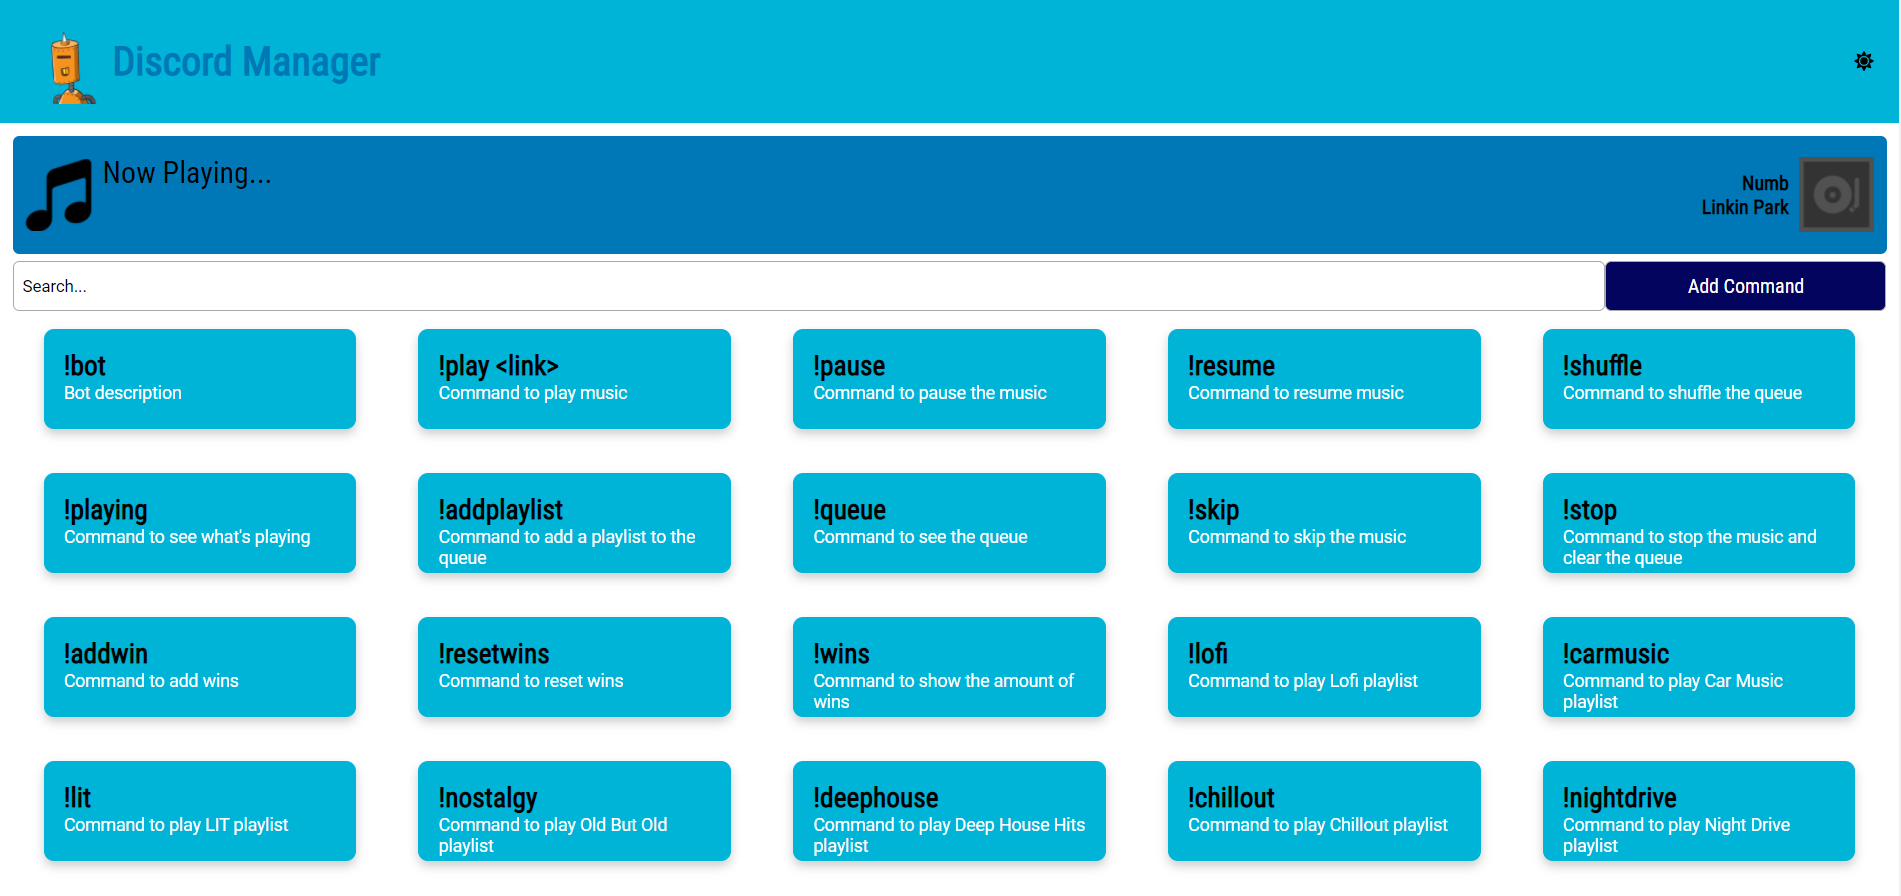
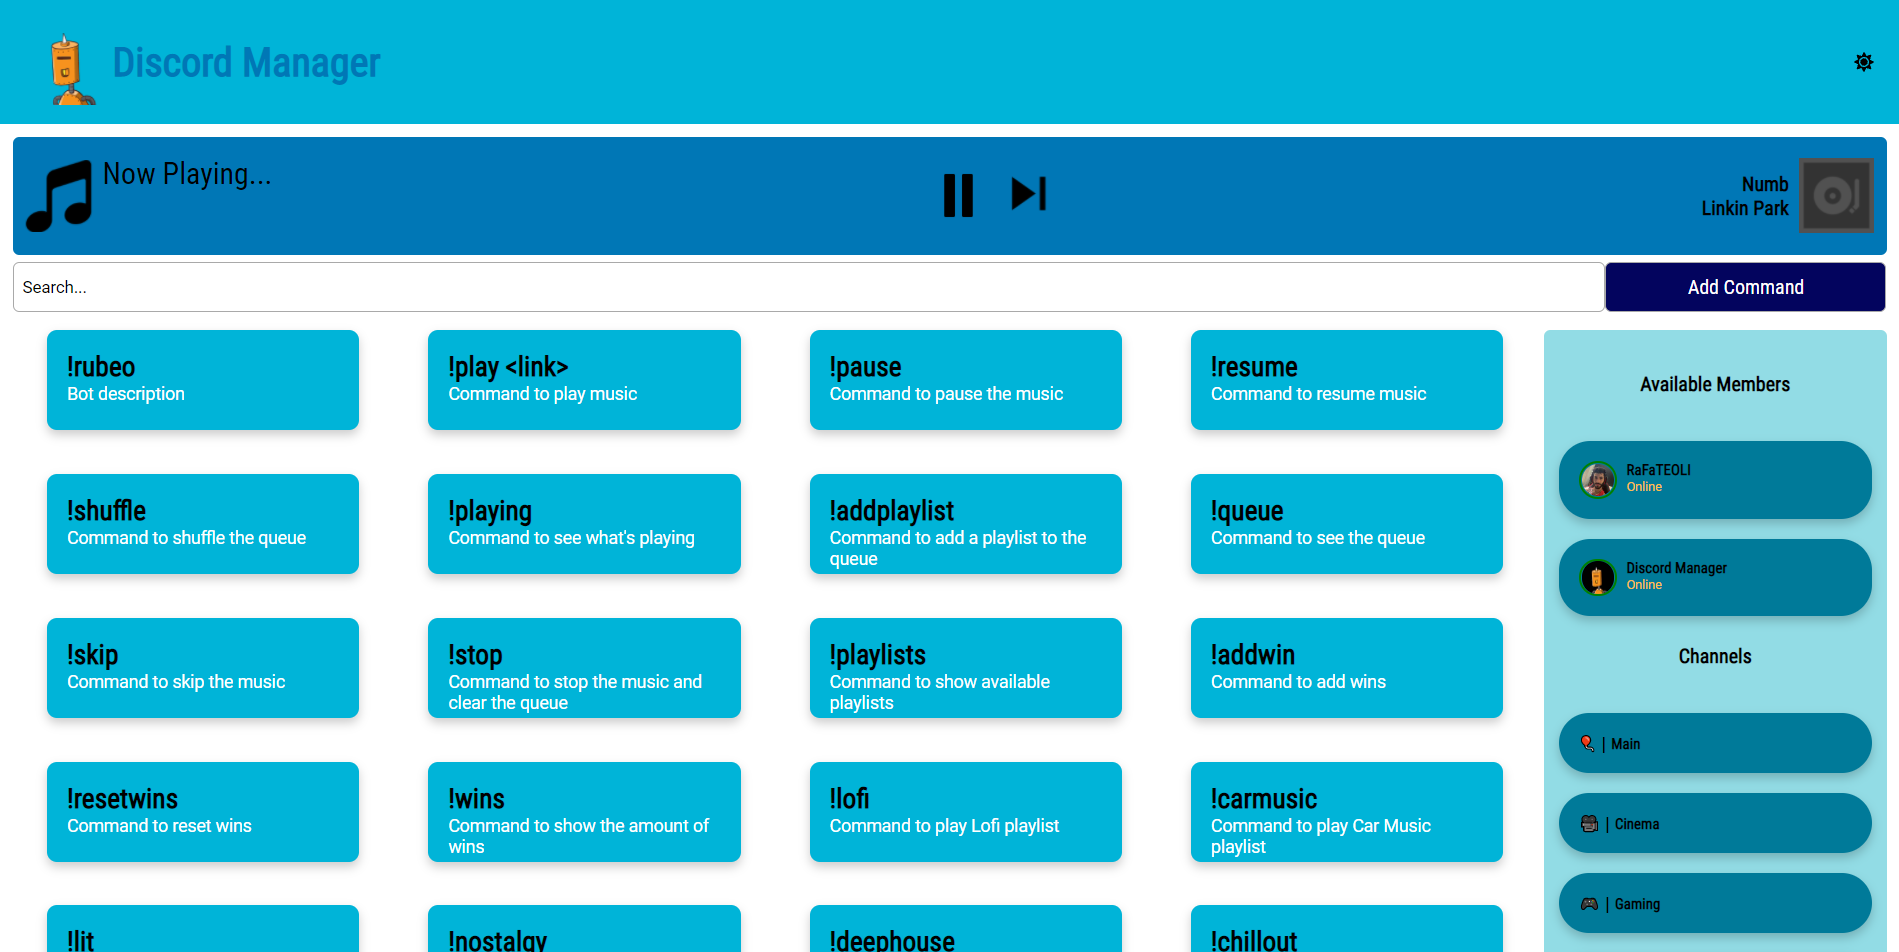
feature: added interval to update server info (members and channels)

diff --git a/frontend/src/components/Sidebar/index.tsx b/frontend/src/components/Sidebar/index.tsx
@@ -23,13 +23,19 @@ function Sidebar() {
   const [members, setMembers] = useState<Array<IMember>>();
   const [channels, setChannels] = useState<Array<IChannel>>();
 
-  useEffect(() => {
+  const loadServer = () => {
     axios.get(apiUrl).then(response => {
       console.log(response);
       setMembers(response.data.members);
       setChannels(response.data.channels);
     });
+  };
+
+  useEffect(() => {
+    loadServer();
   }, []);
+
+  setInterval(loadServer, 60000);
 
   return members || channels ? (
     <SidebarContainer>
